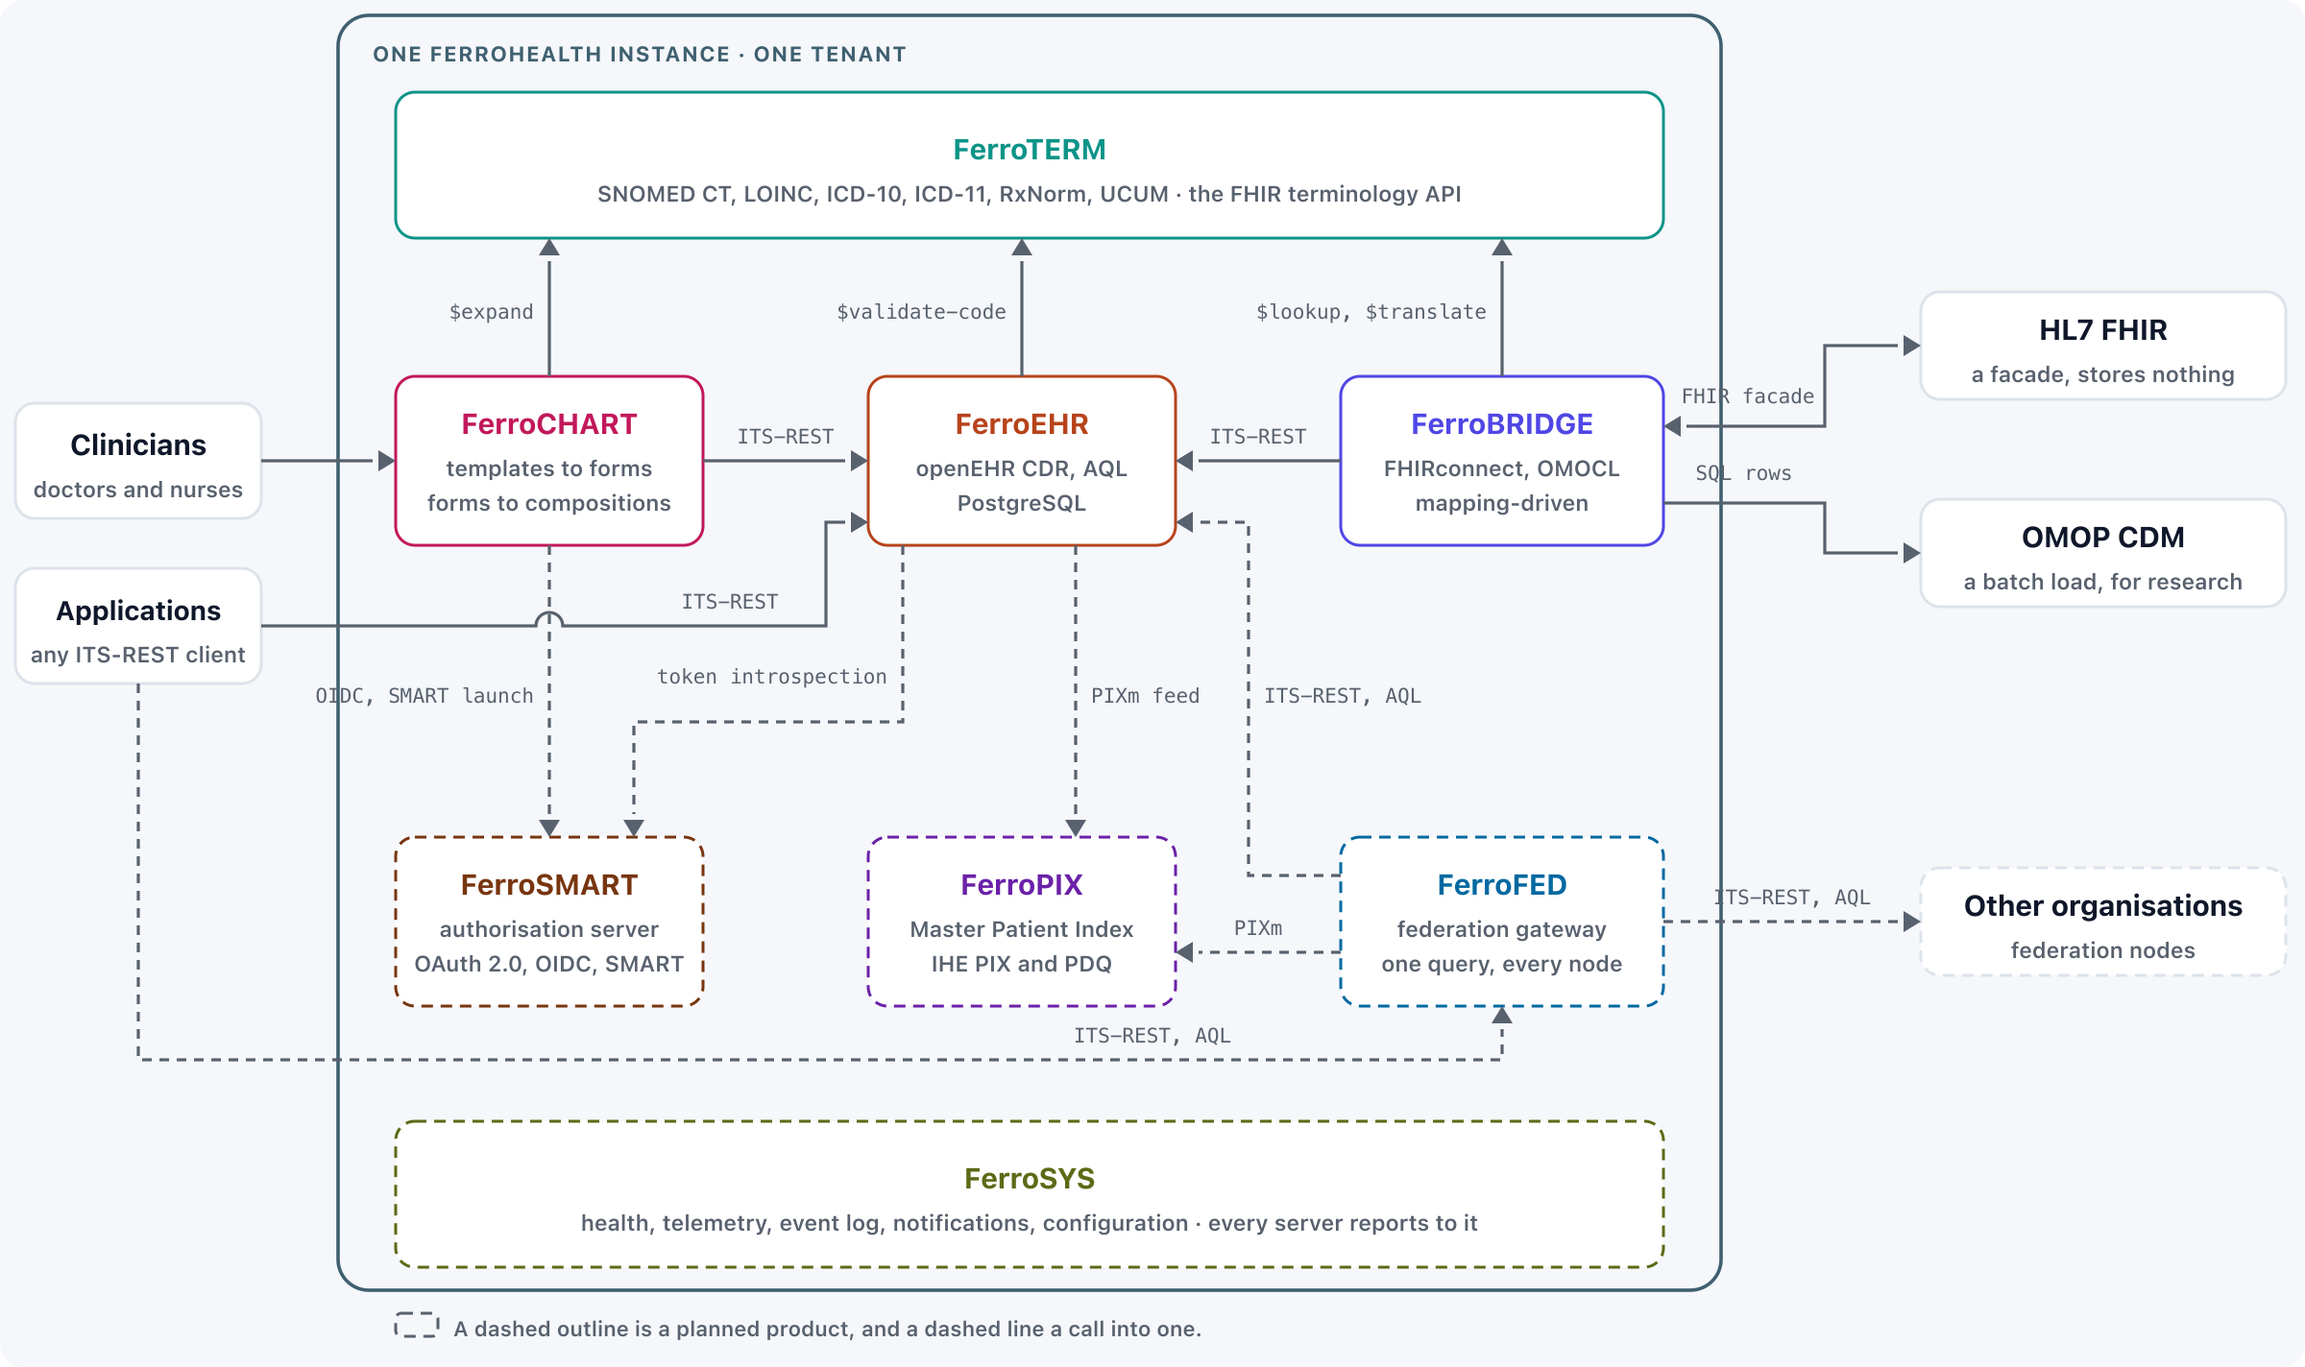
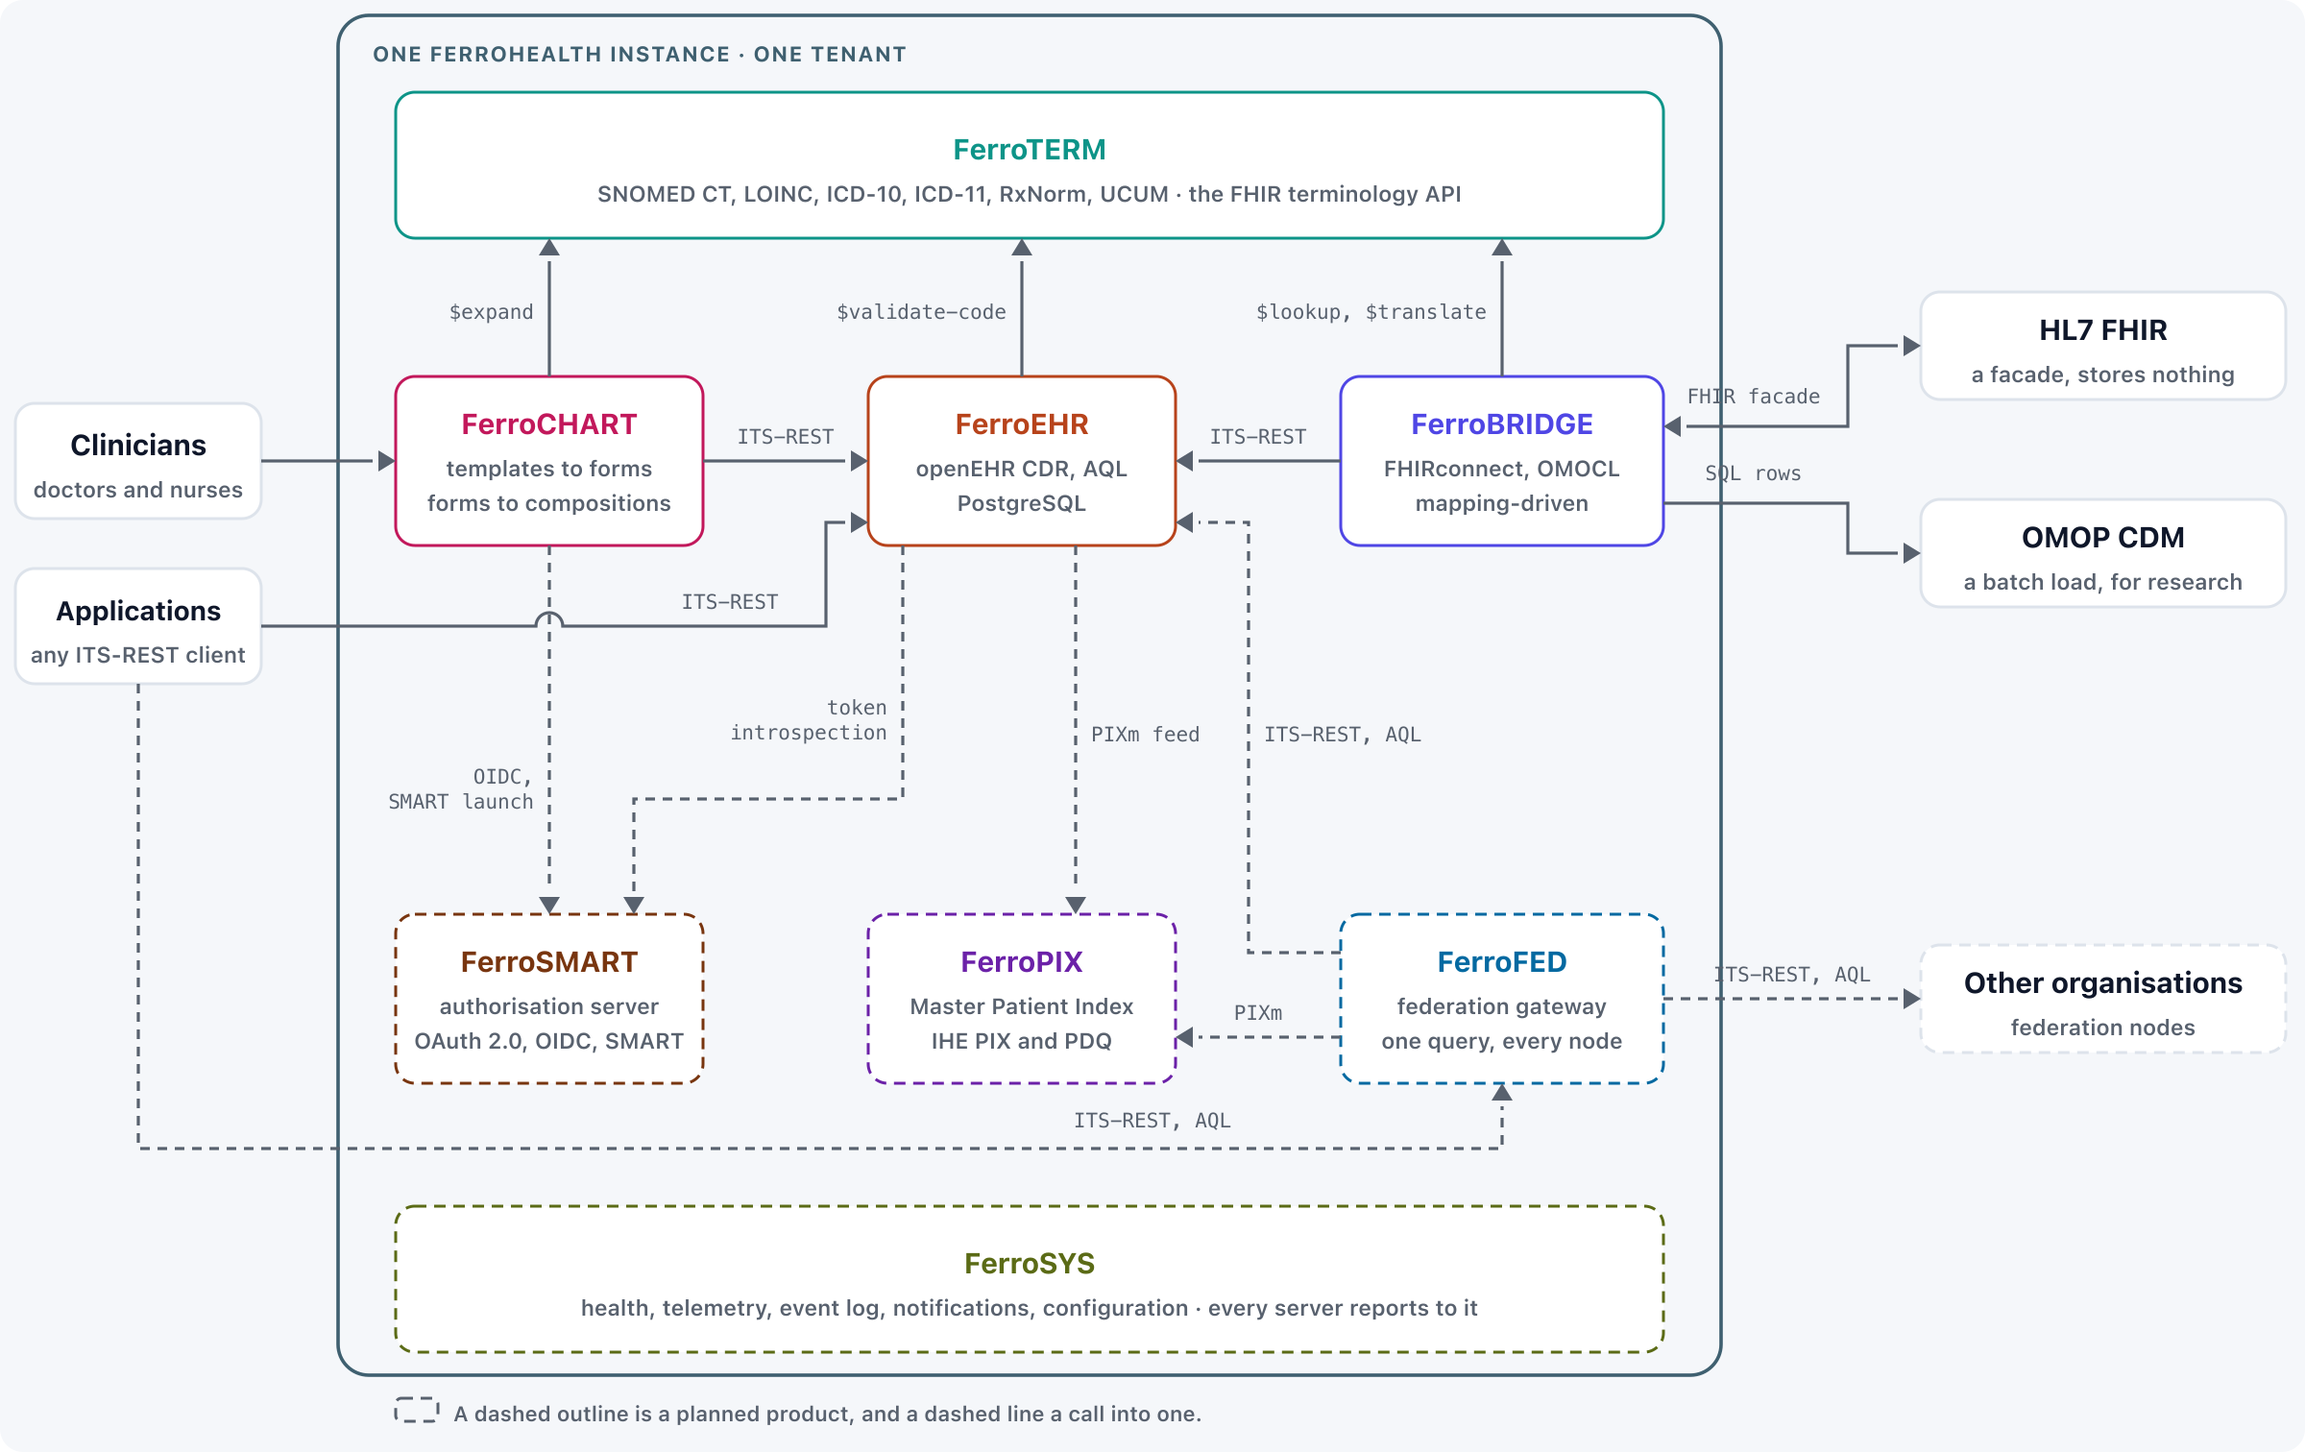
fix(diagram): room around every label, and two-line labels where a line is long
The planned row moves down and the corridor under it widens, so every edge
label has clear air from the boxes and lines around it. "OIDC, SMART launch"
and "token introspection" become two lines each, which keeps them off the
Applications box and off each other. The two right-hand elbows move outward
so "FHIR facade" has room between FerroBRIDGE and the bend.

The generator now demands 8px between a label and a box or another label and
5px between a label and a line, and refuses the drawing otherwise; the
clearances above are what it took to satisfy that. Raster regenerated at
2400x1512.

diff --git a/website/landing/index.html b/website/landing/index.html
@@ -447,7 +447,7 @@
              assets/diagrams/README.md says where else it is meant to go. -->
         <div class="flow-scroll">
           <img class="flow" src="./assets/diagrams/ferrohealth-architecture.svg"
-               width="1200" height="712"
+               width="1200" height="756"
                alt="A clinician uses FerroCHART in a browser. FerroCHART expands value sets against FerroTERM and commits compositions to FerroEHR over the openEHR ITS-REST API, which any other application can call directly. FerroEHR validates coded values against FerroTERM. FerroBRIDGE reads FerroEHR over ITS-REST, calls FerroTERM with $lookup and $translate, exchanges resources with HL7 FHIR over its FHIR facade in both directions, and writes typed rows into an OMOP Common Data Model database over SQL. Four planned services, drawn dashed, frame the four servers: FerroCHART obtains its token and launch context from FerroSMART, the SMART on openEHR server, and FerroEHR asks FerroSMART whether each token it is handed may do what it asks; FerroEHR feeds FerroPIX, the Master Patient Index, each EHR it creates; applications send FerroFED, the federation gateway, an ordinary AQL query, and it asks FerroPIX where the record is, then dispatches the query to FerroEHR and to other organisations' openEHR CDRs as federation nodes; and FerroSYS, the control plane, spans everything as the band every server reports to. A frame around the eight marks one FerroHEALTH instance serving one tenant; clinicians, applications, FHIR, OMOP and other organisations sit outside it.">
         </div>
         <p class="flow-note">

diff --git a/website/landing/style.css b/website/landing/style.css
@@ -364,7 +364,7 @@ section { padding: clamp(3rem, 7vw, 4.5rem) 0; }
    page holds its size and nothing else. Below the min-width the labels stop
    being readable, so it scrolls inside its own box. */
 .flow-scroll { overflow-x: auto; }
-/* The drawing is 1200x712 and fills the wrap. At 900px its 10.5px edge labels
+/* The drawing is 1200x756 and fills the wrap. At 900px its 10.5px edge labels
    render at under 8px; the min-width is the point below which they stop being
    readable at all, and below that the box scrolls. */
 .flow { display: block; width: 100%; min-width: 1100px; max-width: 1400px; margin: 0 auto; height: auto; }

diff --git a/scripts/diagrams/ferrohealth-architecture.py b/scripts/diagrams/ferrohealth-architecture.py
@@ -27,14 +27,14 @@ import sys
 from dataclasses import dataclass, field
 from typing import Optional
 
-W, H = 1200, 712
+W, H = 1200, 756
 Y = 36  # everything below the frame's label line moves down this much
 
 # The frame: what is FerroHEALTH and what is the outside world. One instance
 # serves one tenant; that is the setup the family shows. FerroEHR can host
 # several isolated tenants in one deployment as its own setting, and an
 # organisation that serves several runs several instances instead.
-FRAME = (176, 8, 720, 664)  # x, y, w, h
+FRAME = (176, 8, 720, 708)  # x, y, w, h
 FRAME_LABEL = "ONE FERROHEALTH INSTANCE · ONE TENANT"
 INSIDE = {"term", "chart", "ehr", "bridge", "smart", "pix", "fed", "sys"}
 STEEL = ("#3f6070", "#8fb6c4")
@@ -64,6 +64,7 @@ MONO = "ui-monospace, SFMono-Regular, Menlo, Consolas, monospace"
 
 HEAD = 12  # the line stops this far short of the tip, leaving room for the head
 HOP = 7  # radius of the arc a line draws over another where it has to cross
+LINE = 13  # line pitch of a two-line edge label
 
 
 @dataclass
@@ -120,14 +121,15 @@ class Label:
 
     def bbox(self):
         per_char = 0.62 if self.mono else 0.54
-        w = len(self.text) * self.size * per_char
+        lines = self.text.split("\n")
+        w = max(len(t) for t in lines) * self.size * per_char
         if self.anchor == "middle":
             x0 = self.x - w / 2
         elif self.anchor == "end":
             x0 = self.x - w
         else:
             x0 = self.x
-        return (x0, self.y - self.size * 0.75, x0 + w, self.y + self.size * 0.25)
+        return (x0, self.y - self.size * 0.75, x0 + w, self.y + self.size * 0.25 + LINE * (len(lines) - 1))
 
 
 # --- the declarations ---------------------------------------------------------
@@ -154,30 +156,30 @@ BOXES = [
             "its own lane, so it never reads as something FerroCHART sits in front of."),
     Box("fhir", 1000, 116, 190, 56, "HL7 FHIR", subs=["a facade, stores nothing"]),
     Box("omop", 1000, 224, 190, 56, "OMOP CDM", subs=["a batch load, for research"]),
-    Box("smart", 206, 400, 160, 88, "FerroSMART", hue="smart", planned=True,
+    Box("smart", 206, 440, 160, 88, "FerroSMART", hue="smart", planned=True,
         subs=["authorisation server", "OAuth 2.0, OIDC, SMART"],
         why="The SMART on openEHR layer FerroEHR carries today (the discovery document,\n"
             "the launch context, the scope grammar and its gate), pulled out into a\n"
             "server of its own so one place owns authorisation for the family. Two\n"
             "edges: the application obtains its token and launch context here, and the\n"
             "CDR asks here whether the token it is handed may do what it asks."),
-    Box("pix", 452, 400, 160, 88, "FerroPIX", hue="pix", planned=True,
+    Box("pix", 452, 440, 160, 88, "FerroPIX", hue="pix", planned=True,
         subs=["Master Patient Index", "IHE PIX and PDQ"],
         why="Under the CDR whose records it locates. The CDR feeds it when an EHR is\n"
             "created or its subject changes, the gateway asks it where a record is; an\n"
             "application that opens a record asks it the same way, and FerroCHART\n"
             "receives the EHR it is launched with and asks nobody."),
-    Box("fed", 698, 400, 168, 88, "FerroFED", hue="fed", planned=True,
+    Box("fed", 698, 440, 168, 88, "FerroFED", hue="fed", planned=True,
         subs=["federation gateway", "one query, every node"],
         why="Under FerroBRIDGE, on the side where data leaves, and level with the other\n"
             "organisations it talks to. The federation tier of the openEHR federation\n"
             "proposal: a transparent ITS-REST intermediary that resolves the patient\n"
             "first, then dispatches ordinary AQL to each node's own EHR id."),
-    Box("others", 1000, 416, 190, 56, "Other organisations", planned=True,
+    Box("others", 1000, 456, 190, 56, "Other organisations", planned=True,
         subs=["federation nodes"],
         why="Dashed like the gateway that reaches them, because without FerroFED there is\n"
             "no path to them at all."),
-    Box("sys", 206, 548, 660, 76, "FerroSYS", hue="sys", planned=True,
+    Box("sys", 206, 592, 660, 76, "FerroSYS", hue="sys", planned=True,
         subs=["health, telemetry, event log, notifications, configuration · every server reports to it"],
         why="The mirror of the FerroTERM band: meaning above the servers, operations\n"
             "below them. No edges, because every one of the seven boxes above would carry\n"
@@ -201,46 +203,46 @@ EDGES = [
          why="The bridge reads the CDR, so the arrow points at the CDR."),
     Edge("bridge", "term", [(782, 160), (782, 88)], "$lookup, $translate", (774, 130, "end"),
          why="The bridge resolves and translates codes for the FHIR side."),
-    Edge("bridge", "fhir", [(866, 186), (950, 186), (950, 144), (1000, 144)], "FHIR facade",
-         (910, 174, "middle"), both=True,
+    Edge("bridge", "fhir", [(866, 186), (962, 186), (962, 144), (1000, 144)], "FHIR facade",
+         (913, 174, "middle"), both=True,
          why="FHIR is an exchange, so this edge carries a head at both ends."),
-    Edge("bridge", "omop", [(866, 226), (950, 226), (950, 252), (1000, 252)], "SQL rows",
-         (908, 214, "middle"),
+    Edge("bridge", "omop", [(866, 226), (962, 226), (962, 252), (1000, 252)], "SQL rows",
+         (913, 214, "middle"),
          why="OMOP is a database schema, so this edge names no wire specification."),
-    Edge("chart", "smart", [(286, 248), (286, 400)], "OIDC, SMART launch", (278, 330, "end"),
+    Edge("chart", "smart", [(286, 248), (286, 440)], "OIDC,\nSMART launch", (278, 372, "end"),
          planned=True,
          why="FerroCHART is a SMART application: it reads the CDR's discovery document,\n"
              "sends the clinician to the authorization server, and comes back with a\n"
              "token that carries the launch context."),
-    Edge("ehr", "smart", [(470, 248), (470, 340), (330, 340), (330, 400)], "token introspection",
-         (462, 320, "end"), planned=True,
+    Edge("ehr", "smart", [(470, 248), (470, 380), (330, 380), (330, 440)], "token\nintrospection",
+         (462, 336, "end"), planned=True,
          why="The scope gate FerroEHR runs in its own request path today becomes a\n"
              "question to this server: is this token good, and does it cover this\n"
              "operation on this record. FerroTERM and FerroBRIDGE ask the same; the\n"
              "caption carries those two lines."),
-    Edge("fed", "ehr", [(698, 420), (650, 420), (650, 236), (612, 236)], "ITS-REST, AQL",
-         (658, 330, "start"), planned=True,
+    Edge("fed", "ehr", [(698, 460), (650, 460), (650, 236), (612, 236)], "ITS-REST, AQL",
+         (658, 350, "start"), planned=True,
          why="The gateway queries the local record like any client, below the bridge's\n"
              "own read of it and into the CDR's right side, so the two never meet."),
-    Edge("ehr", "pix", [(560, 248), (560, 400)], "PIXm feed", (568, 330, "start"), planned=True,
+    Edge("ehr", "pix", [(560, 248), (560, 440)], "PIXm feed", (568, 350, "start"), planned=True,
          why="The index has to learn where records are, and the CDR is the one component\n"
              "that knows the moment an EHR is created or its subject changes. IHE names\n"
              "the transaction: the PIXm Patient Identity Feed."),
-    Edge("fed", "pix", [(698, 460), (612, 460)], "PIXm", (655, 451, "middle"), planned=True,
+    Edge("fed", "pix", [(698, 504), (612, 504)], "PIXm", (655, 495, "middle"), planned=True,
          why="Where is the record: the gateway asks the index before it fans out."),
-    Edge("fed", "others", [(866, 444), (1000, 444)], "ITS-REST, AQL", (933, 435, "middle"),
+    Edge("fed", "others", [(866, 484), (1000, 484)], "ITS-REST, AQL", (933, 475, "middle"),
          planned=True,
          why="A remote CDR is a node like the local one: the gateway sends it standard\n"
              "AQL scoped to that node's own EHR id and merges what comes back, with the\n"
              "node named in the result."),
-    Edge("apps", "fed", [(72, 320), (72, 516), (782, 516), (782, 488)], "ITS-REST, AQL",
-         (600, 507, "middle"), planned=True, around=True,
+    Edge("apps", "fed", [(72, 320), (72, 562), (782, 562), (782, 528)], "ITS-REST, AQL",
+         (600, 551, "middle"), planned=True, around=True,
          why="The application tier: a client sends the gateway an ordinary AQL query and\n"
              "never learns it was federated. The line runs under the planned row, the one\n"
              "corridor where it crosses nothing."),
 ]
 
-LEGEND = (206, 656, "A dashed outline is a planned product, and a dashed line a call into one.")
+LEGEND = (206, 700, "A dashed outline is a planned product, and a dashed line a call into one.")
 
 
 for _b in BOXES:
@@ -397,14 +399,14 @@ def check(boxes, edges):
     for lab in labels:
         r = lab.bbox()
         for b in boxes:
-            if rect_overlap(r, box_rect(b), pad=2):
-                problems.append(f"label '{lab.text}' touches box {b.key}")
+            if rect_overlap(r, box_rect(b), pad=8):
+                problems.append(f"label '{lab.text}' is within 8px of box {b.key}")
         for e, p, q in segments:
-            if seg_hits_rect(p, q, (r[0] - 3, r[1] - 3, r[2] + 3, r[3] + 3)):
+            if seg_hits_rect(p, q, (r[0] - 5, r[1] - 5, r[2] + 5, r[3] + 5)):
                 problems.append(f"label '{lab.text}' touches edge {e.src}->{e.dst}")
     for i, a in enumerate(labels):
         for b in labels[i + 1:]:
-            if rect_overlap(a.bbox(), b.bbox(), pad=4):
+            if rect_overlap(a.bbox(), b.bbox(), pad=8):
                 problems.append(f"labels '{a.text}' and '{b.text}' overlap")
 
     if problems:
@@ -470,8 +472,11 @@ def draw_edge(e):
         out += f'    <path class="edge-head" d="{hd}" fill="{MUTED[0]}"/>\n'
     if e.label:
         x, y, anchor = e.label_at
+        lines = e.label.split("\n")
+        body = e.label if len(lines) == 1 else "".join(
+            f'<tspan x="{fmt(x)}" dy="{0 if i == 0 else LINE}">{t}</tspan>' for i, t in enumerate(lines))
         out += (f'    <text class="edge-label" x="{fmt(x)}" y="{fmt(y)}" text-anchor="{anchor}" '
-                f'font-family="{MONO}" font-size="10.5" fill="{MUTED[0]}">{e.label}</text>\n')
+                f'font-family="{MONO}" font-size="10.5" fill="{MUTED[0]}">{body}</text>\n')
     return out
 
 

diff --git a/assets/diagrams/README.md b/assets/diagrams/README.md
@@ -9,7 +9,7 @@ site: a product README, the books, a slide, an issue.
 | File | What it shows |
 |---|---|
 | `ferrohealth-architecture.svg` | what calls what across the four servers and the four planned services around them |
-| `ferrohealth-architecture.png` | the same at 2400x1424, for the rare consumer that renders no SVG at all |
+| `ferrohealth-architecture.png` | the same at 2400x1512, for the rare consumer that renders no SVG at all |
 
 ## How it is drawn
 
@@ -36,7 +36,7 @@ The landing page loads the SVG with `<img>`, and so can anything else:
 
 ```html
 <img src="https://ferrohealth.eu/assets/diagrams/ferrohealth-architecture.svg"
-     width="1200" height="712" alt="...">
+     width="1200" height="756" alt="...">
 ```
 
 In a Markdown file, reference the SVG:
@@ -143,7 +143,7 @@ graphite.
 ## Regenerating the raster
 
 ```bash
-rsvg-convert -w 2400 -h 1424 \
+rsvg-convert -w 2400 -h 1512 \
   assets/diagrams/ferrohealth-architecture.svg \
   -o assets/diagrams/ferrohealth-architecture.png
 ```
